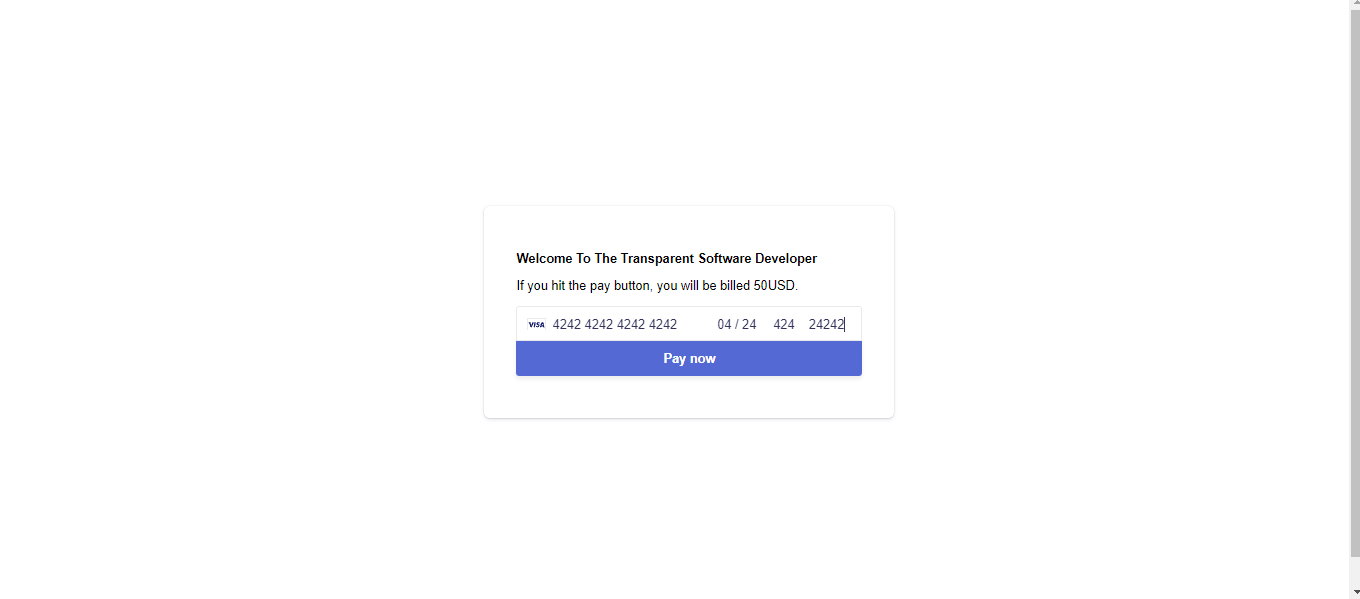
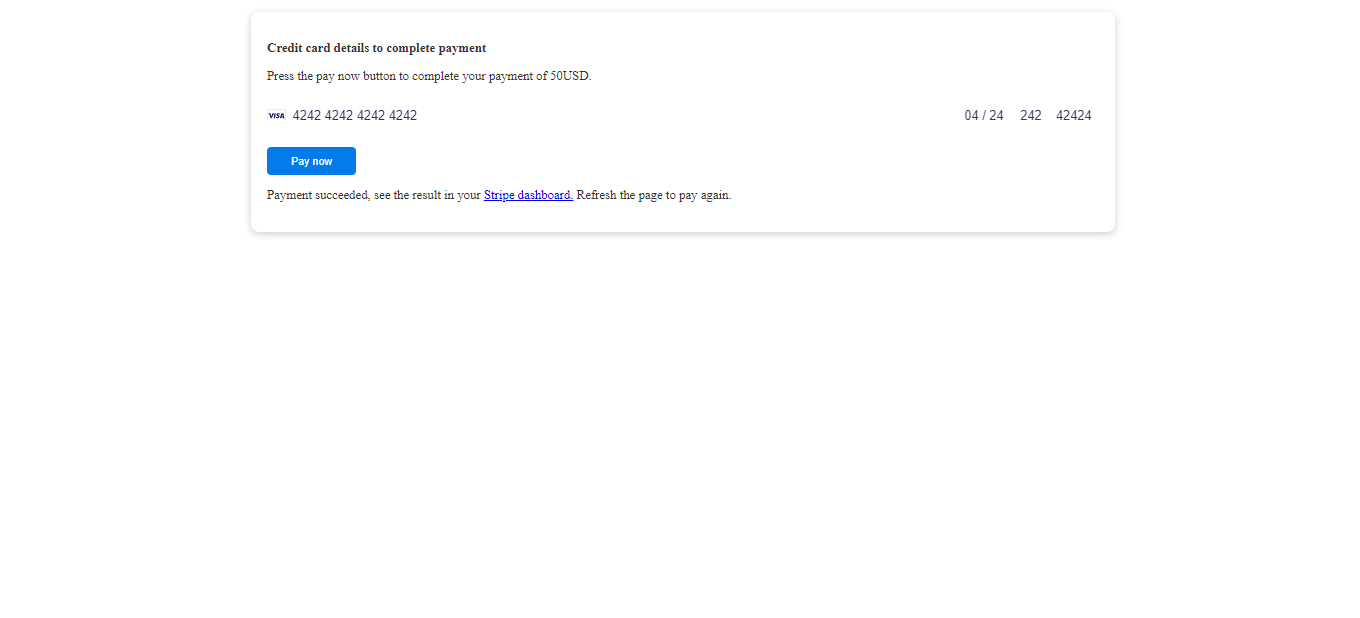
added custom styling

diff --git a/content/articles/stripe-springboot/index.md b/content/articles/stripe-springboot/index.md
@@ -244,6 +244,7 @@ var stripe = Stripe(stripePublicKey);
 
 // The items the customer wants to buy
 var purchase = {
+    email:email
     amount: amount,
     featureRequest: featureRequest
 };
@@ -381,16 +382,28 @@ Create a file named `index.html` under the resources section and we will use thi
 
 <body>
 <!-- Display a payment form -->
-<form id="payment-form" th:action="@{/}" th:object="${checkoutForm}" method="post">
-  <p><b>Welcome to the transparent stripe integration</b></p>
-  <p>Email: <input type="text" th:field="*{email}" placeholder="Email address" required /></p>
-  <p th:if="${#fields.hasErrors('email')}" th:errors="*{email}" style="color: red;"></p>
-  <p>Amount: <input type="text" th:field="*{amount}" placeholder="Amount" required /></p>
-  <p th:if="${#fields.hasErrors('amount')}" th:errors="*{amount}" style="color: red;"></p>
-  <p>Feature Request: <input type="text" th:field="*{featureRequest}" placeholder="Feature Request" required /></p>
-  <p th:if="${#fields.hasErrors('featureRequest')}" th:errors="*{featureRequest}" style="color: red;"></p>
-  <p><input type="submit"></p>
-</form>
+<div class="container">
+  <div class="form-card">
+    <form id="payment-form" th:action="@{/}" th:object="${checkoutForm}" method="post">
+      <p><b>Payment details for a product</b></p>
+      <div class="form-control">
+        <input type="text" th:field="*{email}" placeholder="Email address" required />
+        <p th:if="${#fields.hasErrors('email')}" th:errors="*{email}" style="color: red;"></p>
+      </div>
+      <div class="form-control">
+        <input type="text" th:field="*{amount}" placeholder="Amount" required />
+        <p th:if="${#fields.hasErrors('amount')}" th:errors="*{amount}" style="color: red;"></p>
+      </div>
+      <div class="form-control">
+        <input type="text" th:field="*{featureRequest}" placeholder="Feature Request" required />
+        <p th:if="${#fields.hasErrors('featureRequest')}" th:errors="*{featureRequest}" style="color: red;"></p>
+      </div>
+      <p><input type="submit" class="btn btn-primary"></p>
+    </form>
+
+  </div>
+
+</div>
 </body>
 </html>
 ```
@@ -426,21 +439,27 @@ Create a file named `checkout.html` under the resources section which we will us
 </head>
 
 <body>
-<!-- Display a checkout form -->
-<form id="payment-form">
-  <p><b>Welcome To The Transparent Software Developer</b></p>
-  <p>If you hit the pay button, you will be billed <span th:text="${amount}"></span>USD.</p>
-  <div id="card-element"><!--Stripe.js injects the Card Element--></div>
-  <button id="submit">
-    <div class="spinner hidden" id="spinner"></div>
-    <span id="button-text">Pay now</span>
-  </button>
-  <p id="card-error" role="alert"></p>
-  <p class="result-message hidden">
-    Payment succeeded, see the result in your
-    <a href="" target="_blank">Stripe dashboard.</a> Refresh the page to pay again.
-  </p>
-</form>
+<!-- Display a payment form -->
+<div class="container">
+  <div class="form-card">
+    <form id="payment-form">
+      <p><b>Credit card details to complete payment</b></p>
+      <p>Press the pay now button to complete your payment of <span th:text="${amount}"></span>USD.</p>
+          <div id="card-element" class="form-control"><!--Stripe.js injects the Card Element--></div>
+      <button id="submit" class="btn btn-primary">
+        <div class="spinner hidden" id="spinner"></div>
+        <span id="button-text">Pay now</span>
+      </button>
+      <p id="card-error" role="alert"></p>
+      <p class="result-message hidden">
+        Payment succeeded, see the result in your
+        <a href="" target="_blank">Stripe dashboard.</a> Refresh the page to pay again.
+      </p>
+    </form>
+
+  </div>
+
+</div>
 </body>
 </html>
 ```
@@ -449,176 +468,51 @@ Create a file named `global.css` that we will use to color our payment and check
 
 ```css
 /* Variables */
-* {
-    box-sizing: border-box;
+:root{
+    --primary-color: #047aed;
 }
-
-body {
-    font-family: -apple-system, BlinkMacSystemFont, sans-serif;
-    font-size: 16px;
-    -webkit-font-smoothing: antialiased;
-    display: flex;
-    justify-content: center;
-    align-content: center;
-    height: 100vh;
-    width: 100vw;
+.container{
+    max-width: 1100px;
+    margin: 0 auto;
+    overflow: auto;
+    padding: 0 40px;
 }
-
-form {
-    width: 30vw;
-    min-width: 500px;
-    align-self: center;
-    box-shadow: 0px 0px 0px 0.5px rgba(50, 50, 93, 0.1),
-    0px 2px 5px 0px rgba(50, 50, 93, 0.1), 0px 1px 1.5px 0px rgba(0, 0, 0, 0.07);
-    border-radius: 7px;
-    padding: 40px;
+.form-card{
+    background-color: #fff;
+    color: #333;
+    border-radius: 10px;
+    box-shadow: 0 3px 10px rgba(0,0,0,0.2);
+    padding: 20px;
+    margin: 10px;
 }
-
-input {
-    border-radius: 6px;
-    margin-bottom: 6px;
-    padding: 12px;
-    border: 1px solid rgba(50, 50, 93, 0.1);
-    height: 44px;
-    font-size: 16px;
-    width: 100%;
-    background: white;
-}
-
-.result-message {
-    line-height: 22px;
-    font-size: 16px;
-}
-
-.result-message a {
-    color: rgb(89, 111, 214);
-    font-weight: 600;
-    text-decoration: none;
-}
-
-.hidden {
-    display: none;
-}
-
-#card-error {
-    color: rgb(105, 115, 134);
-    text-align: left;
-    font-size: 13px;
-    line-height: 17px;
-    margin-top: 12px;
-}
-
-#card-element {
-    border-radius: 4px 4px 0 0 ;
-    padding: 12px;
-    border: 1px solid rgba(50, 50, 93, 0.1);
-    height: 44px;
-    width: 100%;
-    background: white;
-}
-
-#payment-request-button {
-    margin-bottom: 32px;
-}
-
-/* Buttons and links */
-button {
-    background: #5469d4;
-    color: #ffffff;
-    font-family: Arial, sans-serif;
-    border-radius: 0 0 4px 4px;
-    border: 0;
-    padding: 12px 16px;
-    font-size: 16px;
-    font-weight: 600;
+.btn{
+    display: inline-block;
+    padding: 10px 30px;
     cursor: pointer;
-    display: block;
-    transition: all 0.2s ease;
-    box-shadow: 0px 4px 5.5px 0px rgba(0, 0, 0, 0.07);
+    background: var(--primary-color);
+    color: #fff;
+    border: none;
+    border-radius: 5px;
+}
+.btn-primary{
+    background-color: var(--primary-color);
+    color: #fff;
+}
+.form-control{
+    margin: 30px 0;
+}
+.form-card input[type='text']{
+    border: 0;
+    border-bottom: 1px solid #b4becb;
     width: 100%;
+    padding: 3px;
+    font-size: 16px;
 }
-button:hover {
-    filter: contrast(115%);
+.form-card input:focus{
+    outline: none;
 }
-button:disabled {
-    opacity: 0.5;
-    cursor: default;
-}
-
-/* spinner/processing state, errors */
-.spinner,
-.spinner:before,
-.spinner:after {
-    border-radius: 50%;
-}
-.spinner {
-    color: #ffffff;
-    font-size: 22px;
-    text-indent: -99999px;
-    margin: 0px auto;
-    position: relative;
-    width: 20px;
-    height: 20px;
-    box-shadow: inset 0 0 0 2px;
-    -webkit-transform: translateZ(0);
-    -ms-transform: translateZ(0);
-    transform: translateZ(0);
-}
-.spinner:before,
-.spinner:after {
-    position: absolute;
-    content: "";
-}
-.spinner:before {
-    width: 10.4px;
-    height: 20.4px;
-    background: #5469d4;
-    border-radius: 20.4px 0 0 20.4px;
-    top: -0.2px;
-    left: -0.2px;
-    -webkit-transform-origin: 10.4px 10.2px;
-    transform-origin: 10.4px 10.2px;
-    -webkit-animation: loading 2s infinite ease 1.5s;
-    animation: loading 2s infinite ease 1.5s;
-}
-.spinner:after {
-    width: 10.4px;
-    height: 10.2px;
-    background: #5469d4;
-    border-radius: 0 10.2px 10.2px 0;
-    top: -0.1px;
-    left: 10.2px;
-    -webkit-transform-origin: 0px 10.2px;
-    transform-origin: 0px 10.2px;
-    -webkit-animation: loading 2s infinite ease;
-    animation: loading 2s infinite ease;
-}
-
-@-webkit-keyframes loading {
-    0% {
-        -webkit-transform: rotate(0deg);
-        transform: rotate(0deg);
-    }
-    100% {
-        -webkit-transform: rotate(360deg);
-        transform: rotate(360deg);
-    }
-}
-@keyframes loading {
-    0% {
-        -webkit-transform: rotate(0deg);
-        transform: rotate(0deg);
-    }
-    100% {
-        -webkit-transform: rotate(360deg);
-        transform: rotate(360deg);
-    }
-}
-
-@media only screen and (max-width: 600px) {
-    form {
-        width: 80vw;
-    }
+.hidden{
+    display: none;
 }
 ```
 
